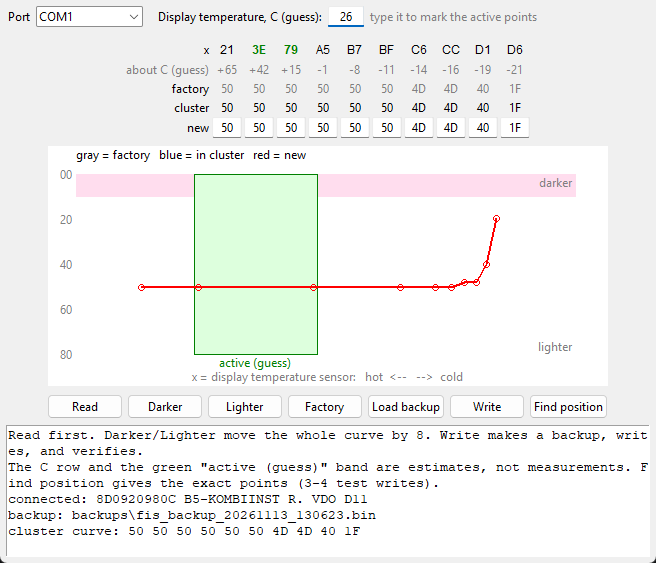
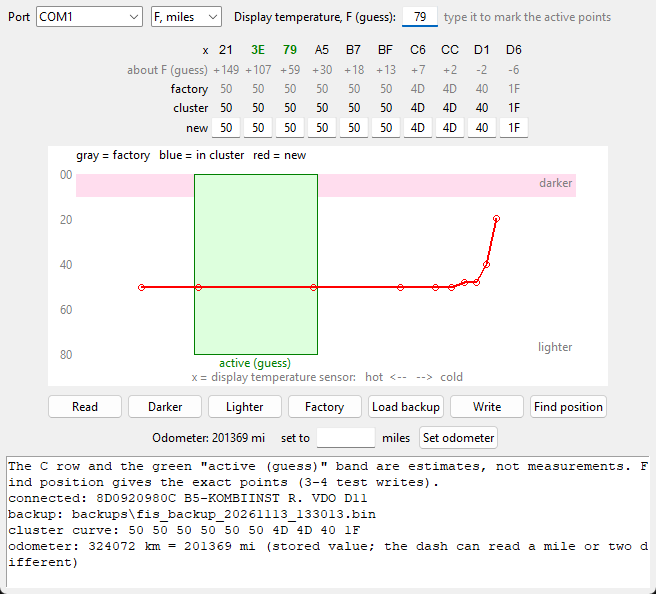
Odometer read/set for swapped clusters, F/C and miles/km switch, backup privacy warning
- set_odometer: backup, write the 16 ring bytes at 0x042, verify the whole EEPROM (GUI row + CLI 'odometer N [--miles]')
- ring offset measured on a D11: stored = shown km + 52
- write16/restart shared by the contrast row and the odometer ring
- GUI units box: F, miles (default) or C, km

diff --git a/fis_adjuster.py b/fis_adjuster.py
@@ -1,5 +1,5 @@
 #!/usr/bin/env python3
-"""RxD FIS Adjuster: contrast curve of the B5 Audi VDO cluster centre display (FIS).
+"""RxD FIS Adjuster: contrast curve of the B5 Audi VDO cluster centre display (FIS), plus odometer set for swapped clusters.
 
 GUI:  python fis_adjuster.py
 CLI:  python fis_adjuster.py --port COM3 read
@@ -7,13 +7,14 @@ CLI:  python fis_adjuster.py --port COM3 read
       python fis_adjuster.py --port COM3 set "28 28 28 28 28 28 25 25 18 10" [--write]
       python fis_adjuster.py --port COM3 restore backups/fis_backup_X.bin [--write]
       python fis_adjuster.py --port COM3 probe                    (find where on the curve the cluster is now)
+      python fis_adjuster.py --port COM3 odometer 201370 --miles [--write]   (swapped cluster: set the true mileage)
 
 x is the display temperature sensor (hotter = lower x, measured). The C figures the app shows are guesses.
 
 Needs: Python 3, pyserial (pip install pyserial), a dumb FTDI KKL K-line cable. Tkinter for the GUI.
 EEPROM 0x26A: 0A, 10 x breakpoints (0x26B-0x274), 10 contrast bytes (0x275-0x27E). Lower byte = darker pixels.
 """
-import argparse, datetime, math, os, sys, threading, queue, time
+import argparse, datetime, math, os, struct, sys, threading, queue, time
 import serial
 
 FACTORY = [0x50, 0x50, 0x50, 0x50, 0x50, 0x50, 0x4D, 0x4D, 0x40, 0x1F]
@@ -51,6 +52,29 @@ def active_for(t):
 
 assert abs(x_to_c(GUESS_X) - GUESS_C) < 1e-6 and abs(c_to_x(x_to_c(0xA5)) - 0xA5) < 1e-6 and active_for(20) == [1, 2] and active_for(-40) == [9]
 GUESS_ROW = ' '.join('%+3.0f' % x_to_c(x) for x in XAXIS)
+
+# Odometer: a ring of 8 little-endian words at 0x042. Each word is the inverse of a counter in 16 km units, and the
+# number of words one step ahead adds 2 km each. Stored value = shown km + ODO_OFS.
+# ODO_OFS is measured, not exact: on a D11 the dash rolled over 2-3 km below the +50 that older tools use, so the dash
+# can land a mile or two from what you typed. Check the dash after a write and set it again if needed.
+ODO, ODO_OFS, KM_PER_MI = 0x42, 52, 1.609344
+
+
+def ring_km(img):
+    c = [~w & 0xFFFF for w in struct.unpack('<8H', bytes(img[ODO:ODO + 16]))]
+    lo = min(c)
+    n = sum(1 for v in c if v == lo + 1)
+    if c != [lo + (i < n) for i in range(8)]:
+        raise Fail('odometer ring is not a valid pattern: ' + hx(img[ODO:ODO + 16]))
+    return 16 * lo + 2 * n - ODO_OFS
+
+
+def ring_bytes(km):
+    v = km + ODO_OFS
+    return list(struct.pack('<8H', *[~((v >> 4) + (i < ((v & 15) >> 1))) & 0xFFFF for i in range(8)]))
+
+
+assert all(ring_km([0] * ODO + ring_bytes(k)) in (k, k - 1) for k in (0, 1, 17, 160950, 324075, 999999))
 
 
 class Fail(Exception):
@@ -256,24 +280,24 @@ class Cluster:
             raise Fail('two reads differ at %03X: bad connection' % bad[0])
         return a
 
-    def write_row(self, img, curve):
-        row = list(img[0x270:0x280])
-        row[5:15] = curve
+    def write16(self, adr, old, new):
+        """Write 16 EEPROM bytes at adr. Never resends blind: if the ACK is lost, look at what is there now."""
+        cmd = [adr >> 8, adr & 0xFF]
         for attempt in (1, 2):
             try:
-                r = self.d1([0x77, 0x10, 0x02, 0x70] + row, tries=1)
-                if r[2] == 0x06:
-                    break
+                if self.d1([0x77, 0x10] + cmd + list(new), tries=1)[2] == 0x06:
+                    return
             except Fail:
                 pass
-            # no ACK: never resend blind. Look at what the row holds now.
-            now = list(self.d1([0x72, 0x10, 0x02, 0x70])[3:19])
-            if now == row:
-                break                                   # it was written, only the ACK got lost
-            if now != list(img[0x270:0x280]) or attempt == 2:
-                raise Fail('write not acknowledged and row 0x270 is now %s. Read again / restore.' % hx(now))
-            self.log('write not acknowledged, row unchanged, trying once more')
-        self.d1([0x53, 0x82])          # display picks up the new curve; the cluster drops the session
+            now = list(self.d1([0x72, 0x10] + cmd)[3:19])
+            if now == list(new):
+                return                                  # it was written, only the ACK got lost
+            if now != list(old) or attempt == 2:
+                raise Fail('write not acknowledged and %03X is now %s. Read again / restore.' % (adr, hx(now)))
+            self.log('write not acknowledged, bytes unchanged, trying once more')
+
+    def restart(self):
+        self.d1([0x53, 0x82])          # the cluster takes up the new values and drops the session
         self.ser.close()
         time.sleep(4)
         self.ser.open()
@@ -285,6 +309,12 @@ class Cluster:
                 if t == 2:
                     raise Fail('written, but could not log in again to verify. Read it back.')
                 time.sleep(3)
+
+    def write_row(self, img, curve):
+        row = list(img[0x270:0x280])
+        row[5:15] = curve
+        self.write16(0x270, list(img[0x270:0x280]), row)
+        self.restart()
 
 
 def check_layout(img):
@@ -335,7 +365,38 @@ def read_curve(port, log=print):
         cl.login()
         img = cl.read_twice()
         log('backup: ' + backup(img))
-        return check_layout(img), cl.ident, cl.outside
+        try:
+            km = ring_km(img)
+        except Fail:
+            km = None
+        return check_layout(img), cl.ident, cl.outside, km
+    finally:
+        cl.close()
+
+
+def set_odometer(port, km, log=print):
+    """For swapped clusters: set the odometer to the car's true mileage. Read twice, back up, write the ring, verify."""
+    if not 0 <= km <= 999999:
+        raise Fail('odometer out of range')
+    cl = Cluster(port, log)
+    try:
+        cl.login()
+        img = cl.read_twice()
+        bak = backup(img)
+        log('backup: ' + bak)
+        old = ring_km(img)                       # refuses a ring it does not understand
+        new = ring_bytes(km)
+        log('odometer %d km -> %d km' % (old, km))
+        cl.write16(ODO, img[ODO:ODO + 16], new)
+        cl.restart()
+        after = cl.read_all()
+        want = bytearray(img)
+        want[ODO:ODO + 16] = bytes(new)
+        bad = [i for i in range(2048) if after[i] != want[i] and i not in CLUSTER_MANAGED]
+        if bad:
+            raise Fail('VERIFY FAILED at %s. Backup: %s' % (' '.join('%03X' % i for i in bad), bak))
+        log('odometer written and verified. Check the dash: it can land a mile or two off, set it again if so.')
+        return bak
     finally:
         cl.close()
 
@@ -395,7 +456,7 @@ def gui():
     root = tk.Tk()
     root.title('RxD FIS Adjuster')
     q = queue.Queue()
-    state = {'read': None, 'active': [], 'exact': False, 'busy': False, 'closing': False}
+    state = {'read': None, 'active': [], 'exact': False, 'busy': False, 'closing': False, 'km': None, 'outside': None, 'us': True}
 
     top = ttk.Frame(root, padding=6)
     top.pack(fill='x')
@@ -404,7 +465,11 @@ def gui():
     port = ttk.Combobox(top, values=ports, width=14)
     port.set(ports[0] if ports else '')
     port.pack(side='left', padx=4)
-    ttk.Label(top, text='   Display temperature, C (guess):').pack(side='left')
+    units = ttk.Combobox(top, values=['F, miles', 'C, km'], width=8, state='readonly')
+    units.set('F, miles')
+    units.pack(side='left', padx=4)
+    temp_lbl = ttk.Label(top)
+    temp_lbl.pack(side='left')
     temp = ttk.Entry(top, width=5, justify='center')
     temp.pack(side='left', padx=4)
     temp_note = ttk.Label(top, text='type it to mark the active points', foreground='gray')
@@ -413,16 +478,19 @@ def gui():
     grid = ttk.Frame(root, padding=6)
     grid.pack()
     ttk.Label(grid, text='x').grid(row=0, column=0, sticky='e')
-    ttk.Label(grid, text='about C (guess)', foreground='gray').grid(row=1, column=0, sticky='e')
+    c_name = ttk.Label(grid, foreground='gray')
+    c_name.grid(row=1, column=0, sticky='e')
     ttk.Label(grid, text='factory').grid(row=2, column=0, sticky='e')
     ttk.Label(grid, text='cluster').grid(row=3, column=0, sticky='e')
     ttk.Label(grid, text='new').grid(row=4, column=0, sticky='e')
-    cur_lbl, ent, x_lbl = [], [], []
+    cur_lbl, ent, x_lbl, c_lbl = [], [], [], []
     for i in range(10):
         xl = tk.Label(grid, text='%02X' % XAXIS[i])
         xl.grid(row=0, column=i + 1)
         x_lbl.append(xl)
-        ttk.Label(grid, text='%+.0f' % x_to_c(XAXIS[i]), foreground='gray').grid(row=1, column=i + 1)
+        cl_ = ttk.Label(grid, foreground='gray')
+        cl_.grid(row=1, column=i + 1)
+        c_lbl.append(cl_)
         ttk.Label(grid, text='%02X' % FACTORY[i], foreground='gray').grid(row=2, column=i + 1)
         l = ttk.Label(grid, text='--')
         l.grid(row=3, column=i + 1)
@@ -476,6 +544,47 @@ def gui():
 
     btns = ttk.Frame(root, padding=6)
     btns.pack()
+    odo = ttk.Frame(root, padding=(6, 0, 6, 6))
+    odo.pack()
+    odo_lbl = ttk.Label(odo, text='Odometer: read first')
+    odo_lbl.pack(side='left')
+    ttk.Label(odo, text='    set to').pack(side='left')
+    odo_ent = ttk.Entry(odo, width=9, justify='center')
+    odo_ent.pack(side='left', padx=4)
+    odo_unit = ttk.Label(odo)
+    odo_unit.pack(side='left')
+
+    def all_btns():
+        return [b for f_ in (btns, odo) for b in f_.winfo_children() if isinstance(b, ttk.Button)]
+
+    def show(c):                                  # temperature in the chosen unit
+        return c * 1.8 + 32 if state['us'] else c
+
+    def odo_text(km):
+        return '%d mi' % round(km / KM_PER_MI) if state['us'] else '%d km' % km
+
+    def refresh_units(_e=None):
+        was = state['us']
+        state['us'] = units.get().startswith('F')
+        u = 'F' if state['us'] else 'C'
+        temp_lbl.config(text='  Display temperature, %s (guess):' % u)
+        c_name.config(text='about %s (guess)' % u)
+        for i, l in enumerate(c_lbl):
+            l.config(text='%+.0f' % show(x_to_c(XAXIS[i])))
+        odo_unit.config(text='miles' if state['us'] else 'km')
+        odo_lbl.config(text='Odometer: ' + (odo_text(state['km']) if state['km'] is not None else 'read first'))
+        if was != state['us']:                    # convert what is typed in the boxes
+            for e, f_ in ((temp, lambda v: v * 1.8 + 32 if state['us'] else (v - 32) / 1.8),
+                          (odo_ent, lambda v: v / KM_PER_MI if state['us'] else v * KM_PER_MI)):
+                try:
+                    v = float(e.get().replace(',', ''))
+                except ValueError:
+                    continue
+                e.delete(0, 'end')
+                e.insert(0, '%.0f' % f_(v))
+        if state['outside'] is not None:
+            temp_note.config(text='outside sensor: %.0f %s' % (show(state['outside']), u))
+    units.bind('<<ComboboxSelected>>', refresh_units)
     logbox = tk.Text(root, height=8, width=80)
     logbox.pack(padx=6, pady=(0, 6))
 
@@ -484,7 +593,7 @@ def gui():
 
     def run(job, done=None):
         state['busy'] = True
-        for b in btns.winfo_children():
+        for b in all_btns():
             b.state(['disabled'])
 
         def worker():
@@ -512,7 +621,7 @@ def gui():
                 if state['closing']:
                     root.destroy()
                     return
-                for b in btns.winfo_children():
+                for b in all_btns():
                     b.state(['!disabled'])
                 if k == 'err':
                     logbox.insert('end', 'ERROR: ' + v + '\n')
@@ -526,7 +635,7 @@ def gui():
             t = float(temp.get())
         except ValueError:
             return
-        state['active'], state['exact'] = active_for(t), False
+        state['active'], state['exact'] = active_for((t - 32) / 1.8 if state['us'] else t), False
         draw()
     temp.bind('<KeyRelease>', mark_temp)
 
@@ -537,11 +646,14 @@ def gui():
                 l.config(text='%02X' % v)
             set_new(r[0])
             log('cluster curve: ' + hx(r[0]))
+            state['outside'], state['km'] = r[2], r[3]
+            refresh_units()
+            if r[3] is not None:
+                log('odometer: %d km = %d mi (stored value; the dash can read a mile or two different)' % (r[3], round(r[3] / KM_PER_MI)))
             if r[2] is not None:
-                log('outside temperature from the car: %.0f C. The display is at that temperature only after the car has sat for hours.' % r[2])
-                temp_note.config(text='outside sensor: %.0f C' % r[2])
+                log('outside temperature from the car: %.0f C / %.0f F. The display is at that temperature only after the car has sat for hours.' % (r[2], r[2] * 1.8 + 32))
                 if not temp.get().strip():
-                    temp.insert(0, '%.0f' % r[2])
+                    temp.insert(0, '%.0f' % show(r[2]))
                     mark_temp()
         run(lambda: read_curve(port.get(), log), done)
 
@@ -580,6 +692,21 @@ def gui():
             messagebox.showinfo('Find position', r[0])
         run(lambda: probe(port.get(), ask, log), done)
 
+    def do_odo():
+        try:
+            v = float(odo_ent.get().replace(',', ''))
+        except ValueError:
+            return messagebox.showerror('Odometer', 'type the mileage to set first')
+        km = round(v * KM_PER_MI) if state['us'] else round(v)
+        if state['km'] is None:
+            return messagebox.showerror('Odometer', 'Read first')
+        if not messagebox.askyesno('Set odometer', 'Set the odometer to %d mi (%d km)?\n\nThe app reads %s in the cluster now. If that '
+                                   'is not what the dash shows (within a mile or two), stop: this cluster stores it differently.\n\n'
+                                   'This is for a swapped cluster: set it to the car\'s true mileage. A backup is made first.'
+                                   % (round(km / KM_PER_MI), km, odo_text(state['km']))):
+            return
+        run(lambda: set_odometer(port.get(), km, log), lambda _r: do_read())
+
     def shift(n):
         c = new_curve()
         if c:
@@ -589,6 +716,8 @@ def gui():
                       ('Factory', lambda: set_new(FACTORY)), ('Load backup', do_restore),
                       ('Write', do_write), ('Find position', do_probe)):
         ttk.Button(btns, text=text, command=cmd).pack(side='left', padx=2)
+    ttk.Button(odo, text='Set odometer', command=do_odo).pack(side='left', padx=6)
+    refresh_units()
 
     draw()
     log('Read first. Darker/Lighter move the whole curve by 8. Write makes a backup, writes, and verifies.')
@@ -620,9 +749,12 @@ def main():
     s.add_argument('curve', help='10 hex bytes')
     s = sub.add_parser('restore', parents=[common])
     s.add_argument('file')
+    s = sub.add_parser('odometer', parents=[common])
+    s.add_argument('value', type=int, help='mileage to set, in km (or miles with --miles)')
+    s.add_argument('--miles', action='store_true')
     a = ap.parse_args()
     try:
-        cur, name, outside = read_curve(a.port)
+        cur, name, outside, km = read_curve(a.port)
         print('cluster     :', name)
         print('x           :', hx(XAXIS), '  (display temperature sensor: left = hot, right = cold)')
         print('about C     :', GUESS_ROW, '  (GUESS, not calibrated)')
@@ -631,7 +763,17 @@ def main():
             print('outside temp: %.0f C from the car. If the car has sat for hours, the active points are about x %s (guess)'
                   % (outside, ' and '.join('%02X' % XAXIS[i] for i in act)))
         print('curve now   :', hx(cur), '  (factory', hx(FACTORY) + ', lower = darker)')
+        if km is not None:
+            print('odometer    : %d km = %d mi  (stored value; the dash can read a mile or two different)' % (km, round(km / KM_PER_MI)))
         if a.cmd == 'read':
+            return
+        if a.cmd == 'odometer':
+            new_km = round(a.value * KM_PER_MI) if a.miles else a.value
+            print('odometer new: %d km = %d mi' % (new_km, round(new_km / KM_PER_MI)))
+            if not a.write:
+                print('dry run: add --write to apply')
+                return
+            set_odometer(a.port, new_km)
             return
         if a.cmd == 'probe':
             print(probe(a.port, lambda m: {'y': True, 'n': False}.get(input(m + ' [y/n/c=cancel] ').strip().lower()[:1]))[0])

diff --git a/README.md b/README.md
@@ -90,7 +90,8 @@ The tool shifts the whole curve by the same amount, so the cluster's own tempera
 Run `python fis_adjuster.py` with no arguments for the window. It shows:
 - **The table:** the x breakpoints, the factory curve, the curve in your cluster, and the new curve you are editing.
 - **The graph:** gray = factory, blue = in the cluster, red = new. Up is darker. The pink band is the 0x10 floor the app will not write below.
-- **About C (guess):** the guessed temperature of each point (see above).
+- **Units:** the box next to the port switches between F / miles and C / km.
+- **About F or C (guess):** the guessed temperature of each point (see above).
 - **Active (green band):** the points the cluster is using right now. There are two ways to get it:
   - **A guess, no writes.** Type the display's temperature in C into the box at the top. In a car, **Read** fills it in from the car's outside temperature sensor. That is only right after the car has sat for hours; once the cabin warms up, type your own number. The band is labelled "active (guess)".
   - **Exact, 3-4 test writes: Find position.** It lights one point at a time and asks whether text shows, so the display must have some text on it. Your curve is put back afterwards, and Cancel stops it at any question.
@@ -110,7 +111,18 @@ The bench cluster needed 0x30 in total (factory 0x50 to 0x20). The one in the ca
 - Writes one 16-byte row (0x270-0x27F) and changes only the ten contrast bytes.
 - Logs in again and verifies the whole EEPROM.
 
-**Load backup** puts an old curve into "new"; then **Write** restores it.
+**Load backup** puts an old curve into "new"; then **Write** restores it. Only the ten contrast bytes are taken from the file.
+
+**Keep your backup files private.** Each one is the whole cluster EEPROM, which includes your immobilizer login PIN and your mileage. If you share results, share the ten contrast bytes, not the file.
+
+### Odometer, for swapped clusters
+
+If you fit a replacement cluster, it shows the donor car's mileage. **Read** shows the stored odometer, and **Set odometer** writes the value you type, in miles or km. Set it to the car's true mileage; misstating mileage is illegal in most places.
+
+- It makes the same backup first, writes only the 16 odometer bytes (0x042-0x051), and verifies the whole EEPROM afterwards.
+- Check first that the value the app reads matches your dash to within a mile or two. If it does not, your cluster stores it differently: do not write.
+- The dash can land a mile or two from what you typed. The stored value has 2 km steps, and the offset between it and the dash was measured on one cluster. Look at the dash afterwards and set it again if needed.
+- Tested on the bench D11 only.
 
 ### Command line
 
@@ -121,6 +133,7 @@ python fis_adjuster.py shift 0x10 --port COM3 --write
 python fis_adjuster.py set "28 28 28 28 28 28 25 25 18 10" --port COM3 --write
 python fis_adjuster.py restore backups/fis_backup_X.bin --port COM3 --write
 python fis_adjuster.py probe   --port COM3                    # find the active point (asks y/n)
+python fis_adjuster.py odometer 201370 --miles --port COM3 --write   # swapped cluster: set the true mileage (km without --miles)
 ```
 
 ## Notes
@@ -130,7 +143,8 @@ python fis_adjuster.py probe   --port COM3                    # find the active 
   - 8D0 920 980 CX, "VDO D13", in a car through the OBD port. Its factory curve is `50 50 50 50 50 50 4E 4E 40 1F`; the app's "factory" row shows the D11 values, so use your own backup to go back to stock.
   - Linux should work through pyserial but has not been tried. The same table appears at the same address in D12 dumps, not adjusted yet. Reports are welcome.
 - **The temperature figures are guesses.** Only the direction is measured. If you can read your cluster at a known cold or hot temperature, please report x and the temperature.
-- **The cluster counts EEPROM writes** in byte 0x294. Each write adds one.
+- **The cluster counts EEPROM writes** in byte 0x294. Each write adds one, odometer writes included.
+- **Odometer storage:** 8 little-endian words at 0x042, each the inverse of a counter in 16 km units; the number of words one step ahead adds 2 km each. Stored value = shown km + 52 (measured; other tools use + 50).
 - **Protocol:** KW1281 at address 0x17, mode login `1B 80 "loginas9"`, then 19200 8E1 packets `D1 <len> <cmd> <data> <xor>`. The commands used are:
   - `72` read 16 EEPROM bytes
   - `77` write 16 EEPROM bytes
